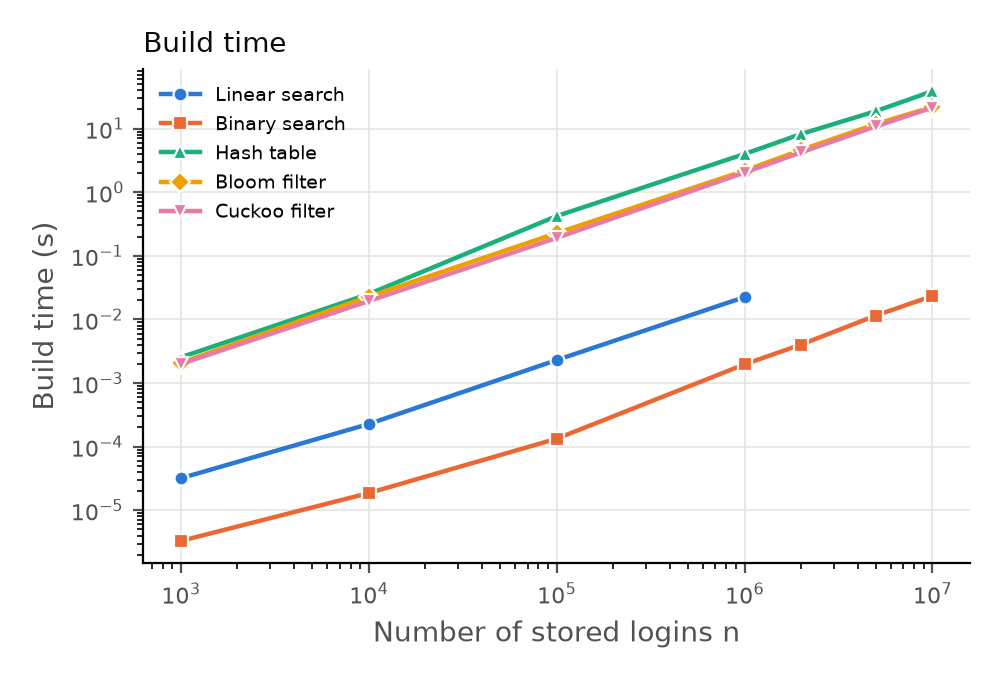
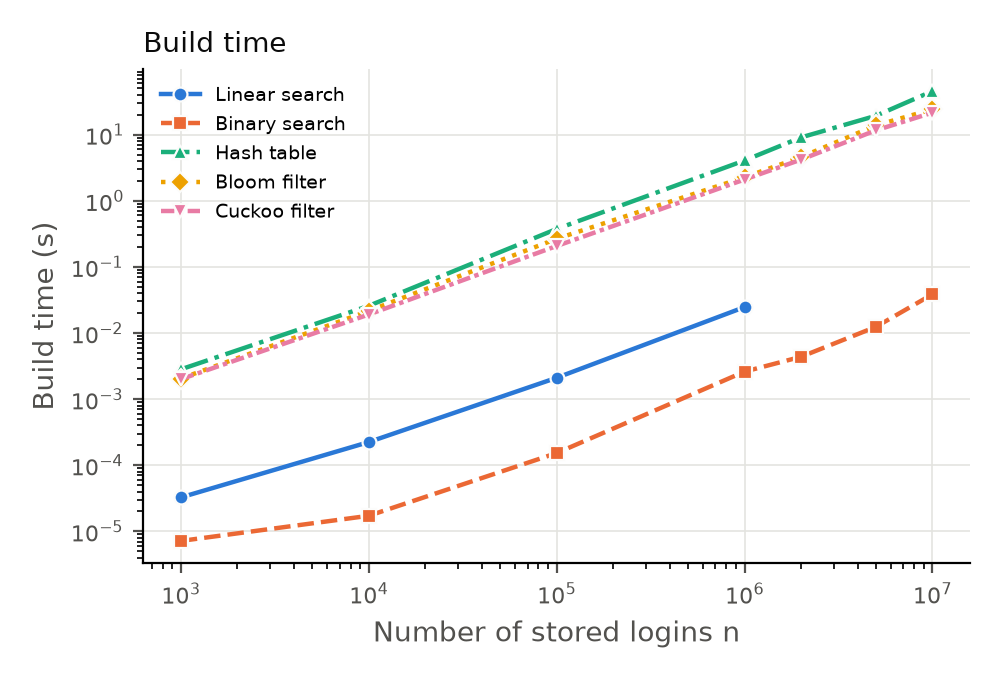
Distinguish overlapping plot lines by linestyle, not just color
linear_search and binary_search have nearly identical bytes/login
(within 1 byte at every n), so binary_search's line was fully hiding
linear_search's in memory.png -- color alone wasn't enough. Each
structure now gets its own linestyle (solid/dashed/dash-dot/dotted/
dash-dot-dot) in addition to its color and marker, applied across all
four figures. Regenerated results/*.png and report/figures/*.png;
report.tex's Results text and figure descriptions now call out the
overlap and why it happens.

Changed region(s): [[0.062, 0.1235, 0.961, 0.8029], [0.062, 0.7412, 0.155, 0.8029], [0.062, 0.6485, 0.155, 0.7103]]

diff --git a/src/login_checker/plots.py b/src/login_checker/plots.py
@@ -11,14 +11,17 @@ import matplotlib
 matplotlib.use("Agg")  # render to files; no display needed
 import matplotlib.pyplot as plt  # noqa: E402
 
-# Categorical slots 1-5 of the validated palette, plus a marker per structure
-# so identity never depends on color alone.
+# Categorical slots 1-5 of the validated palette, plus a marker AND a
+# linestyle per structure, so identity never depends on color alone --
+# including when two structures' curves fall on top of each other (e.g.
+# linear_search and binary_search have nearly identical memory per
+# login; without a linestyle difference one line fully hides the other).
 STYLE = {
-    "linear_search": ("#2a78d6", "o", "Linear search"),
-    "binary_search": ("#eb6834", "s", "Binary search"),
-    "hash_table": ("#1baf7a", "^", "Hash table"),
-    "bloom_filter": ("#eda100", "D", "Bloom filter"),
-    "cuckoo_filter": ("#e87ba4", "v", "Cuckoo filter"),
+    "linear_search": ("#2a78d6", "o", "-", "Linear search"),
+    "binary_search": ("#eb6834", "s", "--", "Binary search"),
+    "hash_table": ("#1baf7a", "^", "-.", "Hash table"),
+    "bloom_filter": ("#eda100", "D", ":", "Bloom filter"),
+    "cuckoo_filter": ("#e87ba4", "v", (0, (3, 1, 1, 1)), "Cuckoo filter"),
 }
 INK = "#0b0b0b"
 MUTED = "#52514e"
@@ -73,10 +76,11 @@ def line_chart(ax, rows, metric: str, scale: float, ylabel: str, title: str) -> 
     plot. Output: none; draws one styled line per structure present in
     rows onto ax (structures missing from rows are simply skipped).
     """
-    for name, (color, marker, label) in STYLE.items():
+    for name, (color, marker, linestyle, label) in STYLE.items():
         xs, ys = series(rows, name, metric, scale)
         if xs:
-            ax.plot(xs, ys, color=color, marker=marker, markersize=5, linewidth=1.6,
+            ax.plot(xs, ys, color=color, marker=marker, linestyle=linestyle,
+                    markersize=5, linewidth=1.6,
                     markeredgecolor="#fcfcfb", markeredgewidth=0.8, label=label)
     ax.set_xscale("log")
     ax.set_yscale("log")
@@ -133,13 +137,14 @@ def plot_memory(rows, out: Path) -> None:
     the structure itself (see benchmark.measure_memory).
     """
     fig, ax = plt.subplots(figsize=(5, 3.4))
-    for name, (color, marker, label) in STYLE.items():
+    for name, (color, marker, linestyle, label) in STYLE.items():
         pts = sorted(
             (int(r["n"]), (float(r["memory_bytes"]) + float(r["string_payload_bytes"])) / int(r["n"]))
             for r in rows if r["structure"] == name and float(r["memory_bytes"]) > 0
         )
         if pts:
-            ax.plot(*zip(*pts), color=color, marker=marker, markersize=5, linewidth=1.6,
+            ax.plot(*zip(*pts), color=color, marker=marker, linestyle=linestyle,
+                    markersize=5, linewidth=1.6,
                     markeredgecolor="#fcfcfb", markeredgewidth=0.8, label=label)
     ax.set_xscale("log")
     ax.set_yscale("log")
@@ -157,11 +162,12 @@ def plot_false_positives(acc_rows, out: Path) -> None:
     """
     fig, ax = plt.subplots(figsize=(5, 3.4))
     for name, key in (("bloom_filter", "bloom_filter"), ("cuckoo_filter", "cuckoo_filter")):
-        color, marker, label = STYLE[key]
+        color, marker, linestyle, label = STYLE[key]
         pts = [r for r in acc_rows if r["experiment"] == "fp_sweep" and r["structure"] == name]
         xs = [float(r["bits_per_item"]) for r in pts]
         ax.plot(xs, [float(r["measured_fp"]) for r in pts], color=color, marker=marker,
-                markersize=5, linewidth=1.6, markeredgecolor="#fcfcfb", label=f"{label} (measured)")
+                linestyle=linestyle, markersize=5, linewidth=1.6,
+                markeredgecolor="#fcfcfb", label=f"{label} (measured)")
         ax.plot(xs, [float(r["theory_fp"]) for r in pts], color=color, linestyle="--",
                 linewidth=1.0, label=f"{label} (theory)")
     ax.set_yscale("log")

diff --git a/report/report.tex b/report/report.tex
@@ -469,7 +469,13 @@ Bloom filter and Cuckoo filter use an order of magnitude less memory than
 any exact structure, because they never store the strings themselves --
 they use $\approx$1.2 and $\approx$2.3 bytes/login respectively, versus
 $\approx$60 (array + string) for binary search and $\approx$120--130 for
-the hash table's bucket/list overhead.
+the hash table's bucket/list overhead. Linear search's curve lies almost
+exactly on top of binary search's (within 1 byte/login at every tested
+$n$; both are one Python list of references to the same strings, and
+sortedness does not change that), so the two lines are visually
+indistinguishable without a linestyle difference; Figure~\ref{fig:memory}
+therefore encodes each structure in both color and line pattern, not
+color alone, following standard accessible-chart practice.
 
 \begin{figure}[t]
 \includegraphics[width=\linewidth]{figures/build_time.png}
@@ -487,10 +493,12 @@ with the hash table slightly above the two filters.}
 \caption{Bytes per stored login vs.\ $n$ (log-log). Exact structures'
 figures include the retained username strings.}
 \Description{A log-log line chart of bytes per stored login against
-number of stored logins. Linear search and binary search sit near 60
-bytes per login, the hash table near 120--130, and the Bloom and
-Cuckoo filters sit an order of magnitude lower, near 1.2 and 2.3 bytes
-per login respectively, all roughly flat as n grows.}
+number of stored logins. Linear search (solid) and binary search
+(dashed) sit near 60 bytes per login and overlap almost exactly, the
+hash table (dash-dot) sits near 120--130, and the Bloom filter
+(dotted) and Cuckoo filter (dash-dot-dot) sit an order of magnitude
+lower, near 1.2 and 2.3 bytes per login respectively, all roughly flat
+as n grows.}
 \label{fig:memory}
 \end{figure}
 
